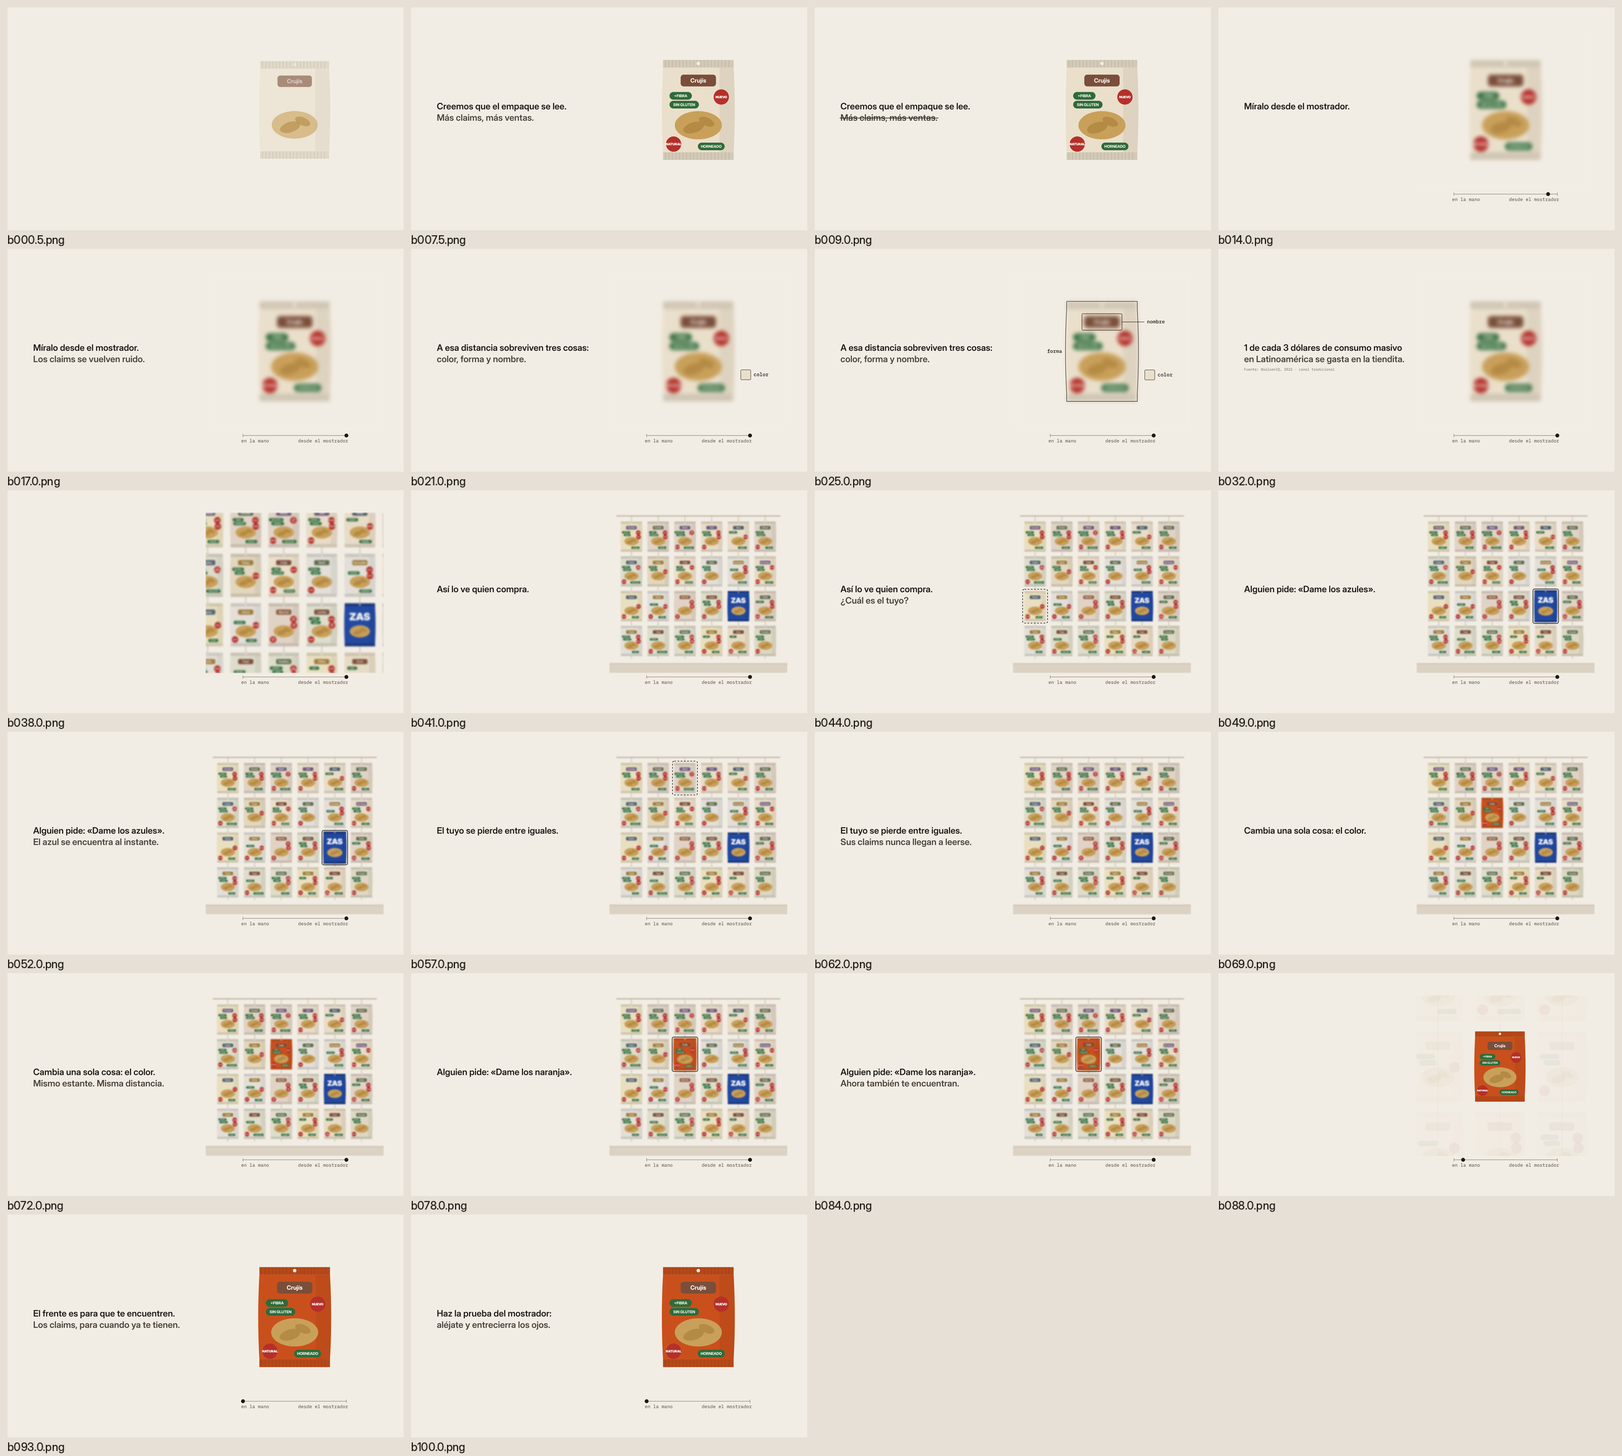
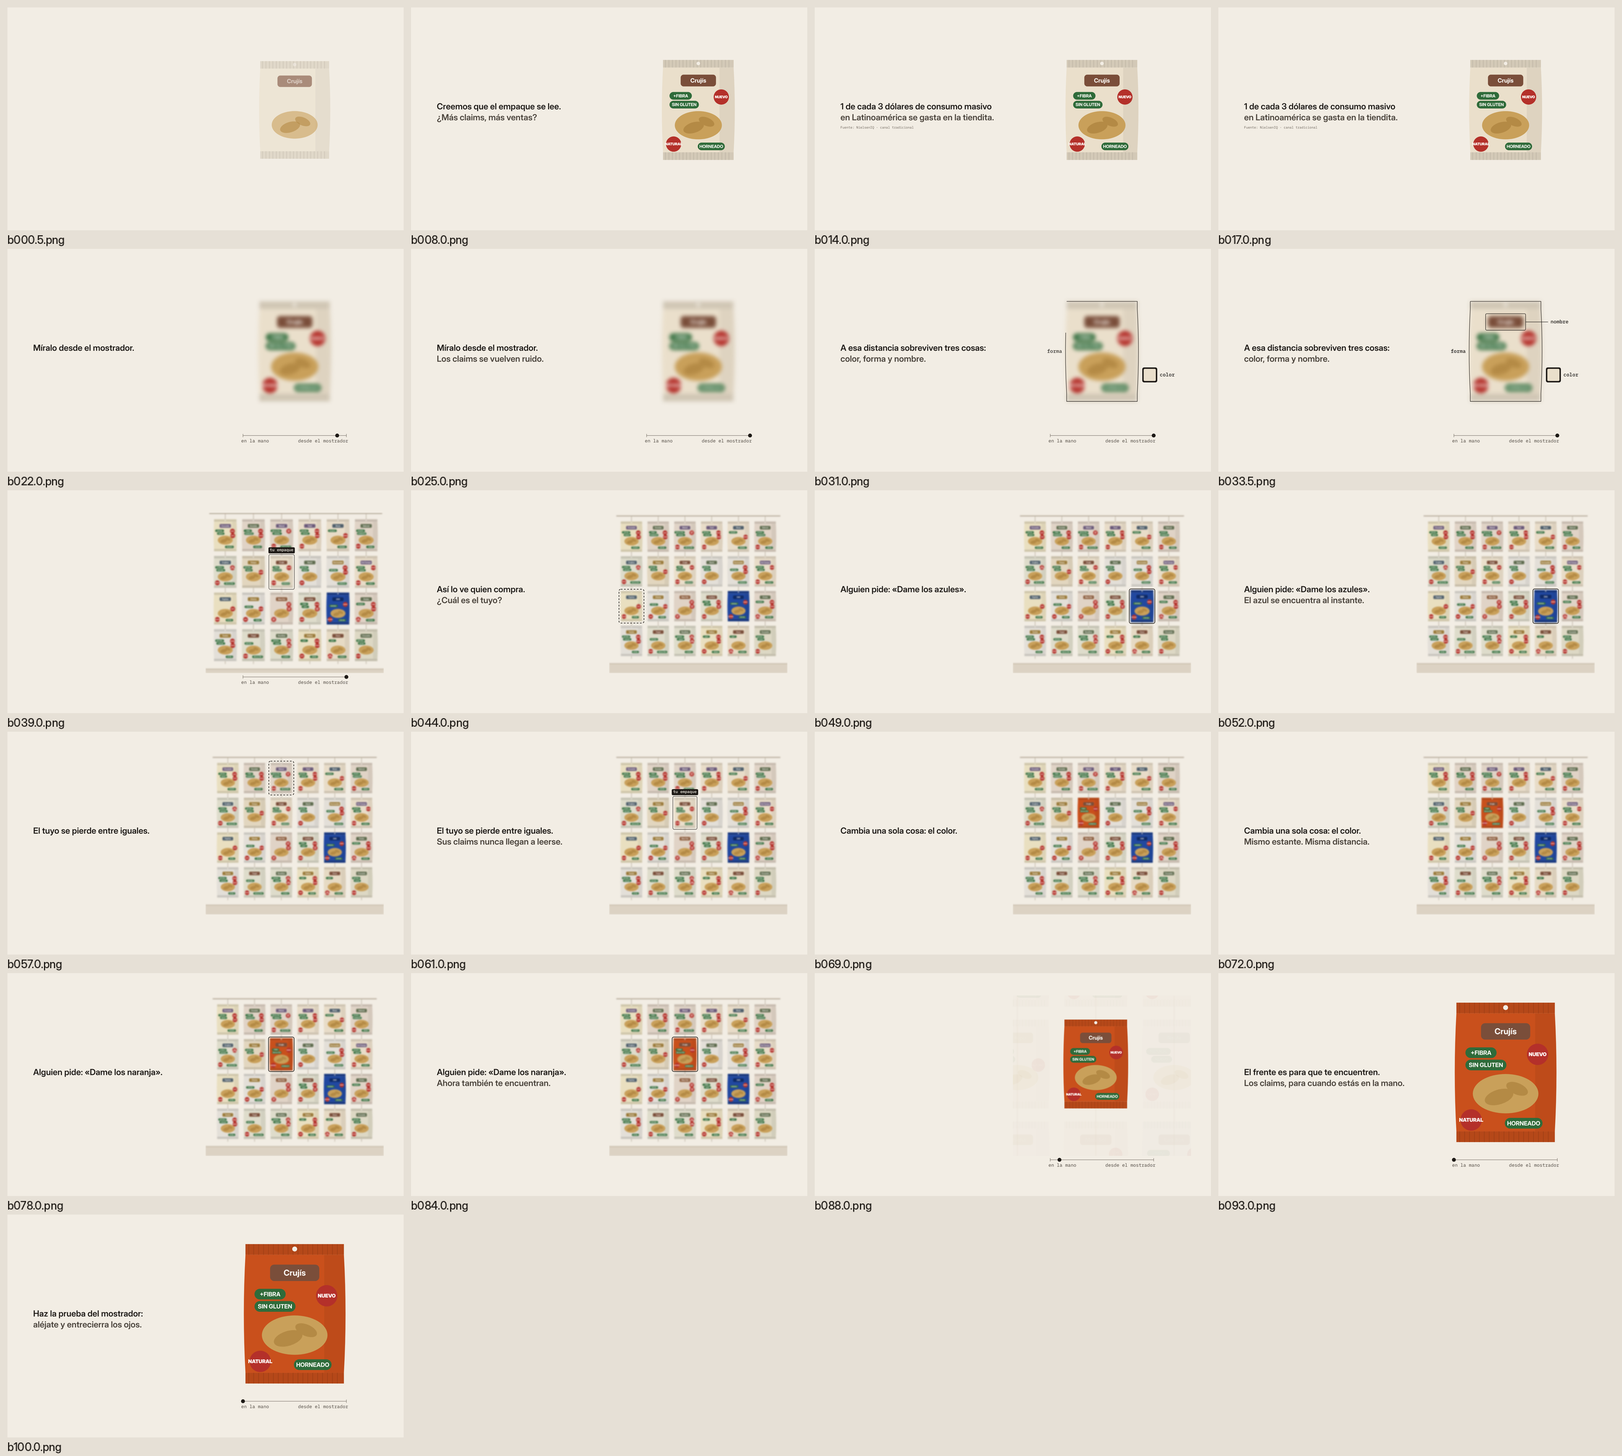
Apply design review: stat to S1, hook as question, mark the hero pack, color-only difference, readable close
Claude-Session: https://claude.ai/code/session_01DJpYzcrNdjLzfP6sZ6EjCM

diff --git a/explainer-empaque-latam/src/scene.js b/explainer-empaque-latam/src/scene.js
@@ -102,7 +102,10 @@
           { t: 'HORNEADO', kind: 'pill', x: 22, y: 62, w: 46 },
         ] });
       } else if (isB) {
-        Object.assign(p, { base: C.blue, deep: C.blueDeep, name: 'ZAS', claims: [] });
+        Object.assign(p, { base: C.blue, logo: '#0F2A66', name: 'ZAS', claims: [
+          { t: 'NUEVO', kind: 'dot', x: 39, y: -22 }, { t: 'ORIGINAL', kind: 'pill', x: -24, y: -14, w: 46 },
+          { t: 'CON SAL', kind: 'pill', x: 22, y: 62, w: 42 }, { t: 'NATURAL', kind: 'dot', x: -42, y: 58 },
+        ] }); // same layout as everyone else: color is the only difference
       } else {
         const k = 3 + Math.floor(rnd() * 3);
         const spots = [[38, -22, 'dot'], [-30, -24, 'pill'], [-24, -9, 'pill'], [-42, 58, 'dot'], [22, 62, 'pill'], [40, 2, 'dot']];
@@ -163,11 +166,6 @@
 
   function paintBrand(g, p) {
     g.textAlign = 'center'; g.textBaseline = 'middle';
-    if (p.isB) {
-      g.fillStyle = C.white; g.font = `900 40px ${F.display}`;
-      g.fillText('ZAS', 0, -30);
-      return;
-    }
     g.fillStyle = p.logo;
     g.beginPath(); g.roundRect(-30, -60, 60, 20, 5); g.fill();
     g.fillStyle = C.white; g.font = `700 10px ${F.display}`;
@@ -180,13 +178,13 @@
     g.textAlign = 'center'; g.textBaseline = 'middle';
     if (cl.kind === 'dot') {
       g.beginPath(); g.arc(0, 0, 13, 0, Math.PI * 2); g.fillStyle = '#B4302A'; g.fill();
-      g.fillStyle = C.white; g.font = `800 5.6px ${F.display}`;
+      g.fillStyle = C.white; g.font = `800 6.2px ${F.display}`;
       const parts = cl.t.split(' ');
       if (parts.length > 1) { g.fillText(parts[0], 0, -3.3); g.fillText(parts[1], 0, 3.3); } else g.fillText(cl.t, 0, 0.3);
     } else {
       const w = cl.w || 40;
       g.beginPath(); g.roundRect(-w / 2, -6.5, w, 13, 6.5); g.fillStyle = '#2F6B3A'; g.fill();
-      g.fillStyle = C.white; g.font = `700 6.4px ${F.display}`; g.fillText(cl.t, 0, 0.4);
+      g.fillStyle = C.white; g.font = `700 7.2px ${F.display}`; g.fillText(cl.t, 0, 0.4);
     }
     g.restore();
   }
@@ -218,15 +216,17 @@
   // ---- Camera ---------------------------------------------------------------------
   const HAND = { x: packA.x, y: packA.y, z: 3.3 };
   const WALL = { x: 500, y: 450, z: 1 };
+  const READ = { x: packA.x, y: packA.y + 4, z: 4.6 }; // payoff: close enough to read the claims
+  function between(P, Q, k) {
+    // interpolate zoom in log space so the move feels even, and keep the focal path straight on screen
+    const z = Math.exp(lerp(Math.log(P.z), Math.log(Q.z), k));
+    const kk = Math.abs(P.z - Q.z) < 1e-6 ? k : (P.z / z - 1) / (P.z / Q.z - 1);
+    return { x: lerp(P.x, Q.x, kk), y: lerp(P.y, Q.y, kk), z };
+  }
   function camera(b) {
     const m = T.moves;
-    const out = move(b, m.cameraOut[0], m.cameraOut[1], easeIO);
-    const back = move(b, m.cameraIn[0], m.cameraIn[1], easeIO);
-    const k = out * (1 - back);
-    // interpolate zoom in log space so the move feels even
-    const z = Math.exp(lerp(Math.log(HAND.z), Math.log(WALL.z), k));
-    const kk = (HAND.z / z - 1) / (HAND.z / WALL.z - 1); // keep the focal path straight on screen
-    return { x: lerp(HAND.x, WALL.x, kk), y: lerp(HAND.y, WALL.y, kk), z };
+    if (b >= m.cameraIn[0]) return between(WALL, READ, move(b, m.cameraIn[0], m.cameraIn[1], easeIO));
+    return between(HAND, WALL, move(b, m.cameraOut[0], m.cameraOut[1], easeIO));
   }
   // world -> stage units (0..1000)
   const toStage = (cam, x, y) => ({ x: (x - cam.x) * cam.z + 500, y: (y - cam.y) * cam.z + 450 });
@@ -349,9 +349,9 @@
       const from = P(20, 20), to = { x: P(60, 0).x + 70, y: P(0, 40).y };
       g.globalAlpha = a;
       const x = lerp(from.x, to.x, k), y = lerp(from.y, to.y, k);
-      g.fillStyle = packA.base; g.strokeStyle = C.ink; g.lineWidth = 2;
-      g.beginPath(); g.roundRect(x - 28, y - 28, 56, 56, 6); g.fill(); g.stroke();
-      label('color', x + 44, y, 'left');
+      g.fillStyle = C.ink; g.beginPath(); g.roundRect(x - 42, y - 42, 84, 84, 10); g.fill();
+      g.fillStyle = packA.base; g.beginPath(); g.roundRect(x - 34, y - 34, 68, 68, 6); g.fill();
+      label('color', x + 56, y, 'left');
       g.globalAlpha = 1;
     }
     if (b >= sv.forma && out > 0) { // forma: the silhouette traced crisp
@@ -382,8 +382,24 @@
       g.globalAlpha = 1;
     }
 
-    // distance meter (stage band 900..1000)
-    const mi = ramp(b, T.moves.meterIn[0], T.moves.meterIn[1]);
+    // which pack is yours: a thin outline and a name tag
+    for (const [t0, t1] of T.moves.tagA) {
+      if (b < t0 || b > t1) continue;
+      const a = ramp(b, t0, t0 + 0.6) * (1 - ramp(b, t1 - 0.6, t1));
+      const rc = stageRect(cam, A_SLOT[0], A_SLOT[1], 8);
+      g.globalAlpha = a; g.strokeStyle = C.ink; g.lineWidth = 2;
+      g.beginPath(); g.roundRect(rc.x, rc.y, rc.w, rc.h, 8); g.stroke();
+      g.font = `500 ${22 * L.ui}px ${F.mono}`; g.textAlign = 'center'; g.textBaseline = 'bottom';
+      const tw = g.measureText('tu empaque').width + 16;
+      g.fillStyle = C.ink; g.beginPath(); g.roundRect(rc.x + rc.w / 2 - tw / 2, rc.y - 34 * L.ui - 6, tw, 34 * L.ui, 6); g.fill();
+      g.fillStyle = C.bg; g.fillText('tu empaque', rc.x + rc.w / 2, rc.y - 12 - 2 * L.ui);
+      g.globalAlpha = 1;
+    }
+
+    // distance meter (stage band 900..1000); rests while it doesn't change
+    const mm = T.moves;
+    const mi = Math.max(ramp(b, mm.meterIn[0], mm.meterIn[1]) * (1 - ramp(b, mm.meterOut[0], mm.meterOut[1])),
+      ramp(b, mm.meterBack[0], mm.meterBack[1]));
     if (mi > 0) {
       g.globalAlpha = mi;
       const x0 = FMT === "16x9" ? 210 : 110, x1 = FMT === "16x9" ? 790 : 890, y = 922;
@@ -438,7 +454,7 @@
       });
       if (e.src && b >= e.l2in) {
         g.globalAlpha = ramp(b, e.l2in + 0.5, e.l2in + 1.1) * outA;
-        g.font = `400 ${Math.round(fs * (FMT === '16x9' ? 0.4 : 0.5))}px ${F.mono}`; g.fillStyle = C.muted;
+        g.font = `400 ${Math.round(fs * (FMT === '16x9' ? 0.55 : 0.6))}px ${F.mono}`; g.fillStyle = C.muted;
         g.fillText(e.src, L.tx, top + lh * 2 + fs * 0.65);
       }
       g.globalAlpha = 1;

diff --git a/explainer-empaque-latam/src/timeline.js b/explainer-empaque-latam/src/timeline.js
@@ -7,8 +7,8 @@
 
   // Scenes (story arc)
   const scenes = [
-    { id: 'S1', name: 'Pregunta', from: 0, to: 10 },
-    { id: 'S2', name: 'Modelo', from: 10, to: 36 },
+    { id: 'S1', name: 'Pregunta', from: 0, to: 18 },
+    { id: 'S2', name: 'Modelo', from: 18, to: 36 },
     { id: 'S3', name: 'Prueba', from: 36, to: 64 },
     { id: 'S4', name: 'Giro', from: 64, to: 86 },
     { id: 'S5', name: 'Cierre', from: 86, to: 104 },
@@ -16,17 +16,17 @@
 
   // On-screen words. Max two lines; each line at most 8 words.
   const text = [
-    { in: 1, out: 9.5, l1: 'Creemos que el empaque se lee.', l2: 'Más claims, más ventas.', l2in: 6, strike: 8 },
-    { in: 11, out: 18, l1: 'Míralo desde el mostrador.', l2: 'Los claims se vuelven ruido.', l2in: 15 },
-    { in: 18.5, out: 26.5, l1: 'A esa distancia sobreviven tres cosas:', l2: 'color, forma y nombre.', l2in: 20 },
-    { in: 27.5, out: 36, l1: '1 de cada 3 dólares de consumo masivo', l2: 'en Latinoamérica se gasta en la tiendita.', l2in: 29,
-      src: 'Fuente: NielsenIQ, 2022 · canal tradicional' },
+    { in: 1, out: 9.5, l1: 'Creemos que el empaque se lee.', l2: '¿Más claims, más ventas?', l2in: 6 },
+    { in: 10.5, out: 18, l1: '1 de cada 3 dólares de consumo masivo', l2: 'en Latinoamérica se gasta en la tiendita.', l2in: 12,
+      src: 'Fuente: NielsenIQ · canal tradicional' },
+    { in: 19, out: 26, l1: 'Míralo desde el mostrador.', l2: 'Los claims se vuelven ruido.', l2in: 23 },
+    { in: 26.5, out: 35, l1: 'A esa distancia sobreviven tres cosas:', l2: 'color, forma y nombre.', l2in: 28 },
     { in: 40, out: 46, l1: 'Así lo ve quien compra.', l2: '¿Cuál es el tuyo?', l2in: 42 },
     { in: 46.5, out: 54, l1: 'Alguien pide: «Dame los azules».', l2: 'El azul se encuentra al instante.', l2in: 50 },
     { in: 54.5, out: 64, l1: 'El tuyo se pierde entre iguales.', l2: 'Sus claims nunca llegan a leerse.', l2in: 58 },
     { in: 65, out: 74, l1: 'Cambia una sola cosa: el color.', l2: 'Mismo estante. Misma distancia.', l2in: 70 },
     { in: 74.5, out: 86, l1: 'Alguien pide: «Dame los naranja».', l2: 'Ahora también te encuentran.', l2in: 78 },
-    { in: 88, out: 97, l1: 'El frente es para que te encuentren.', l2: 'Los claims, para cuando ya te tienen.', l2in: 91 },
+    { in: 88, out: 97, l1: 'El frente es para que te encuentren.', l2: 'Los claims, para cuando estás en la mano.', l2in: 91 },
     { in: 97.5, out: 103.5, l1: 'Haz la prueba del mostrador:', l2: 'aléjate y entrecierra los ojos.', l2in: 99 },
   ];
 
@@ -34,9 +34,12 @@
   const moves = {
     packEnter: [0, 2],
     claims: [3, 4, 5, 6, 7], // one claim stamped per beat
-    meterIn: [10, 11],
-    blurOut: [12, 15], // hand -> counter distance
-    survivors: { color: 20, forma: 22, nombre: 24, out: 26.5 },
+    meterIn: [18, 19],
+    blurOut: [20, 23], // hand -> counter distance
+    survivors: { color: 28, forma: 30, nombre: 32, out: 34.5 },
+    meterOut: [41, 42], // the meter rests while it doesn't change
+    meterBack: [85, 86],
+    tagA: [[38.5, 42], [58.5, 63]], // which pack is yours
     cameraOut: [36, 40], // hand view -> wall view
     wallIn: [36, 39.5],
     searchA: { from: 42, to: 45.5, path: [[1, 0], [3, 1], [0, 2], [5, 1], [2, 2]] },
@@ -58,8 +61,7 @@
   const cues = {
     motif: [48, 67, 76, 97],
     stamp: [3, 4, 5, 6, 7],
-    strike: [8],
-    swoosh: [[12, 15, -1], [86, 89, 1]],
+    swoosh: [[20, 23, -1], [86, 89, 1]],
     reveal: [36],
     search: [42, 42.7, 43.4, 44.1, 44.8, 55, 55.7, 56.4, 57.1, 57.8],
     ping: [48, 76],

diff --git a/explainer-empaque-latam/src/audio.js b/explainer-empaque-latam/src/audio.js
@@ -70,7 +70,7 @@
     }
 
     // ---- Pulse: soft off-beat shaker from the model onward ----
-    for (let b = 10.5; b < 97; b += 1) {
+    for (let b = T.scenes[1].from + 0.5; b < 97; b += 1) {
       const t0 = at(b);
       const s = noise(t0, 0.08);
       const bp = ac.createBiquadFilter(); bp.type = 'bandpass'; bp.frequency.value = 7000; bp.Q.value = 1.2;
@@ -101,7 +101,7 @@
       g.gain.linearRampToValueAtTime(0.09, t0 + 0.004); g.gain.exponentialRampToValueAtTime(0.0001, t0 + 0.09);
       o.connect(g).connect(pan(0.15)); o.start(t0); o.stop(t0 + 0.1);
     });
-    T.cues.strike.forEach((b) => {
+    (T.cues.strike || []).forEach((b) => {
       const t0 = at(b), d = 0.5;
       const s = noise(t0, d);
       const bp = ac.createBiquadFilter(); bp.type = 'bandpass'; bp.Q.value = 2;

diff --git a/explainer-empaque-latam/SCENES.md b/explainer-empaque-latam/SCENES.md
@@ -2,26 +2,26 @@
 
 96 BPM · 1 beat = 0.625 s · 104 beats = 65 s. The source of truth is `src/timeline.js`.
 
-## S1 · Pregunta · 0:00–0:06 (beats 0–10)
-- **Enseña:** la creencia de la que parte el espectador: «más claims, más ventas».
+## S1 · Pregunta · 0:00–0:11 (beats 0–18)
+- **Enseña:** la creencia de la que parte el espectador («¿más claims, más ventas?») y lo que está en juego: la tiendita.
 - **Encuadre:** 1) el empaque Crujís en la mano, 2) los claims, 3) las palabras.
-- **Movimiento:** el empaque entra (opacidad y escala de 0.94 a 1); se estampa un claim por beat (5); la línea 2 se tacha.
-- **Palabras:** «Creemos que el empaque se lee.» / «Más claims, más ventas.» (se tacha)
-- **Sonido:** un clic suave por claim; un roce al tachar.
+- **Movimiento:** el empaque entra (opacidad y escala de 0.94 a 1); se estampa un claim por beat (5); el empaque se queda quieto mientras se lee el dato.
+- **Palabras:** «Creemos que el empaque se lee.» / «¿Más claims, más ventas?» · «1 de cada 3 dólares de consumo masivo» / «en Latinoamérica se gasta en la tiendita.» + fuente.
+- **Sonido:** un clic suave por claim.
 - **Verificación:** el espectador puede decir «yo también pensaba que más información vendía más».
 
-## S2 · Modelo · 0:06–0:22 (beats 10–36)
+## S2 · Modelo · 0:11–0:22 (beats 18–36)
 - **Enseña:** desde el mostrador solo sobreviven tres cosas: color, forma y nombre.
 - **Encuadre:** 1) el medidor de distancia («en la mano» → «desde el mostrador»), 2) el empaque desenfocado, 3) tres anotaciones.
-- **Movimiento:** el punto del medidor se desplaza y causa el desenfoque; los claims se vuelven manchas; aparecen la muestra de color, el trazo de la silueta y la caja del nombre, una por beat; después, el dato.
-- **Palabras:** «Míralo desde el mostrador.» / «Los claims se vuelven ruido.» · «A esa distancia sobreviven tres cosas:» / «color, forma y nombre.» · «1 de cada 3 dólares de consumo masivo» / «en Latinoamérica se gasta en la tiendita.» + fuente.
+- **Movimiento:** el punto del medidor se desplaza y causa el desenfoque; los claims se vuelven manchas; aparecen la muestra de color, el trazo de la silueta y la caja del nombre, una cada dos beats.
+- **Palabras:** «Míralo desde el mostrador.» / «Los claims se vuelven ruido.» · «A esa distancia sobreviven tres cosas:» / «color, forma y nombre.».
 - **Sonido:** un barrido de ruido que se cierra (el detalle se va) y la entrada del pulso.
 - **Verificación:** el espectador puede nombrar los tres elementos que sobreviven a la distancia.
 
 ## S3 · Prueba · 0:22–0:40 (beats 36–64)
 - **Enseña:** en una pared real de bolsas colgadas, el empaque de color propio se encuentra y el lleno de claims se pierde.
 - **Encuadre:** 1) la pared con el mostrador, 2) el anillo de búsqueda, 3) ZAS (azul), 4) Crujís (beige).
-- **Movimiento:** la cámara se aleja y Crujís pasa a ser una bolsa más; la pared se llena desde él hacia afuera; el anillo busca y no encuentra; «Dame los azules» → el anillo cae sobre ZAS y la bolsa se adelanta; luego el anillo deambula alrededor de Crujís sin posarse.
+- **Movimiento:** la cámara se aleja y Crujís pasa a ser una bolsa más, marcada con la etiqueta «tu empaque»; la pared se llena desde él hacia afuera; el anillo busca y no encuentra; «Dame los azules» → el anillo cae sobre ZAS y la bolsa se adelanta; luego el anillo deambula alrededor de Crujís sin posarse, y la etiqueta «tu empaque» vuelve a señalarlo.
 - **Palabras:** «Así lo ve quien compra.» / «¿Cuál es el tuyo?» · «Alguien pide: «Dame los azules».» / «El azul se encuentra al instante.» · «El tuyo se pierde entre iguales.» / «Sus claims nunca llegan a leerse.»
 - **Sonido:** un ascenso grave al revelar la pared; ticks de búsqueda; un ping y el motivo cuando se encuentra el azul.
 - **Verificación:** el espectador puede explicar por qué ZAS gana sin decir una sola palabra sobre sus claims.
@@ -37,7 +37,7 @@
 ## S5 · Cierre · 0:54–1:05 (beats 86–104)
 - **Enseña:** el frente sirve para que te encuentren; los claims, para la mano. Siguiente paso: la prueba del mostrador.
 - **Encuadre:** la imagen inicial otra vez (Crujís en la mano, con los mismos claims), ahora leída correctamente.
-- **Movimiento:** la cámara vuelve a la mano y la pared se desvanece; el medidor regresa a «en la mano» y la imagen se enfoca.
-- **Palabras:** «El frente es para que te encuentren.» / «Los claims, para cuando ya te tienen.» · «Haz la prueba del mostrador:» / «aléjate y entrecierra los ojos.»
+- **Movimiento:** la cámara vuelve a la mano, más cerca que al inicio (los claims se leen), y la pared se desvanece; el medidor regresa a «en la mano» y la imagen se enfoca.
+- **Palabras:** «El frente es para que te encuentren.» / «Los claims, para cuando estás en la mano.» · «Haz la prueba del mostrador:» / «aléjate y entrecierra los ojos.»
 - **Sonido:** un barrido que se abre (el detalle vuelve); el acorde de Re y el motivo final con una nota más arriba.
 - **Verificación:** el espectador puede hacer la prueba hoy mismo con su propio empaque.

diff --git a/explainer-empaque-latam/SOURCES.md b/explainer-empaque-latam/SOURCES.md
@@ -7,7 +7,8 @@ Cada número en pantalla tiene su fuente aquí, o se elimina.
 | Línea en pantalla | Afirmación | Fuente | Estado |
 |---|---|---|---|
 | «1 de cada 3 dólares de consumo masivo / en Latinoamérica se gasta en la tiendita.» | El canal tradicional (tiendas independientes de barrio) representa alrededor de 1 de cada 3 USD de consumo masivo vendidos en la región. | NielsenIQ, 2022, citado por La Nota Económica: «Por la inflación, el canal tradicional se convirtió en uno de los preferidos de los consumidores latinoamericanos». https://lanotaeconomica.com.co/movidas-empresarial/por-la-inflacion-el-canal-tradicional-se-convirtio-en-uno-de-los-preferidos-de-los-consumidores-latinoamericanos-nielseniq/ | Encontrado por búsqueda web. No pude abrir el artículo desde el entorno de producción (el proxy lo bloquea). Verificar el original antes de publicar. |
-| | Dato coherente: NIQ sitúa el promedio latinoamericano de pequeños comercios independientes en el 37 % de las ventas en valor de consumo masivo (Centroamérica: 46 %). | Revista EyN (datos de NIQ): https://www.revistaeyn.com/empresasymanagement/el-canal-tradicional-concentra-el-46-de-las-ventas-de-consumo-masivo-en-centroamerica-JA31028881 | Misma salvedad. |
+| | Dato coherente (en pantalla la fuente dice «NielsenIQ · canal tradicional», sin año, porque el orden de magnitud se repite en 2022 y 2026): NIQ sitúa el promedio latinoamericano de pequeños comercios independientes en el 37 % de las ventas en valor de consumo masivo (Centroamérica: 46 %). | Revista EyN (datos de NIQ): https://www.revistaeyn.com/empresasymanagement/el-canal-tradicional-concentra-el-46-de-las-ventas-de-consumo-masivo-en-centroamerica-JA31028881 | Misma salvedad. |
+| | Argentina: el canal tradicional y los autoservicios independientes explican el 35 % de las ventas de consumo masivo (NIQ, 2026). | Mercado: https://mercado.com.ar/negocios/nielseniq-el-canal-tradicional-ya-explica-35-de-las-ventas-de-consumo-masivo | Misma salvedad. |
 
 ## Considerados y descartados (lista de descarte)
 

diff --git a/explainer-empaque-latam/DECISIONS.md b/explainer-empaque-latam/DECISIONS.md
@@ -20,3 +20,10 @@ Una línea por decisión, en el orden en que se tomó.
 16. **Sonido:** un pad en Re (D–Bm7–Gmaj7–A), un bajo en cada compás y un shaker suave a contratiempo desde el modelo en adelante. El motivo La–Re–Fa♯ vuelve en los 4 momentos de la idea clave (se encuentra el azul, cambio de color, se encuentra el naranja, cierre).
 17. **Loudness:** una ganancia estática de +2.67 dB sobre la mezcla procedural (sin loudnorm dinámico), que deja el audio en unos −16 LUFS sin tocar la dinámica.
 18. **9:16:** el escenario va en el tercio medio y el ~30 % inferior queda libre para la interfaz de la plataforma.
+19. **Después de la revisión de diseño (subagente):** el dato pasa a S1 como lo que está en juego, y S2 enseña solo lo que sobrevive a la distancia.
+20. **El gancho se plantea como pregunta** («¿Más claims, más ventas?») y no se tacha; lo responden S3 y S4.
+21. **«tu empaque»:** una etiqueta marca a Crujís en la pared (beats 38.5–42 y 58.5–63), para que el espectador sepa cuál es el suyo antes del cambio de color.
+22. **ZAS lleva claims como los demás:** el color es la única diferencia visible, así nadie concluye «quita los claims».
+23. **El cierre se acerca hasta que los claims se leen** (zoom 4.6), y la línea dice «en la mano», con el mismo nombre que el medidor.
+24. **El medidor descansa mientras no cambia** (se oculta entre los beats 42 y 85).
+25. **La muestra de color lleva un marco de tinta**, porque el beige sobre el fondo beige no se veía.
